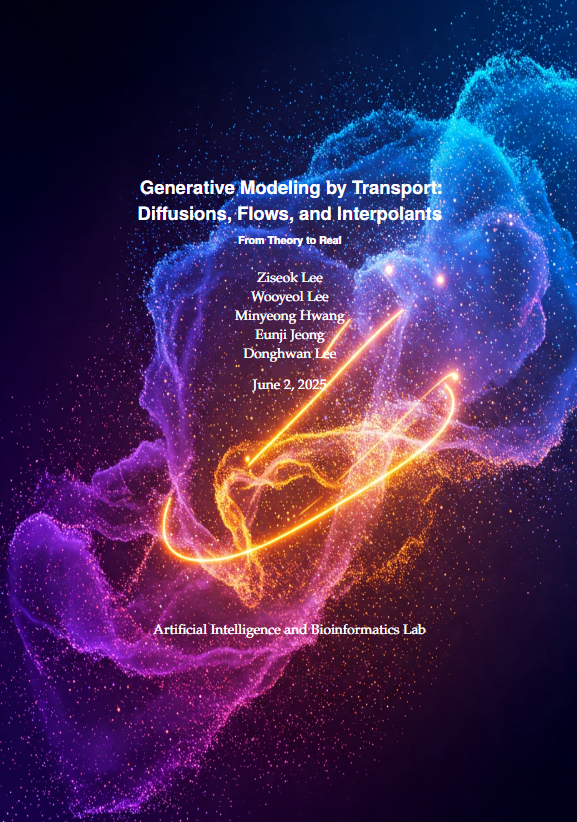
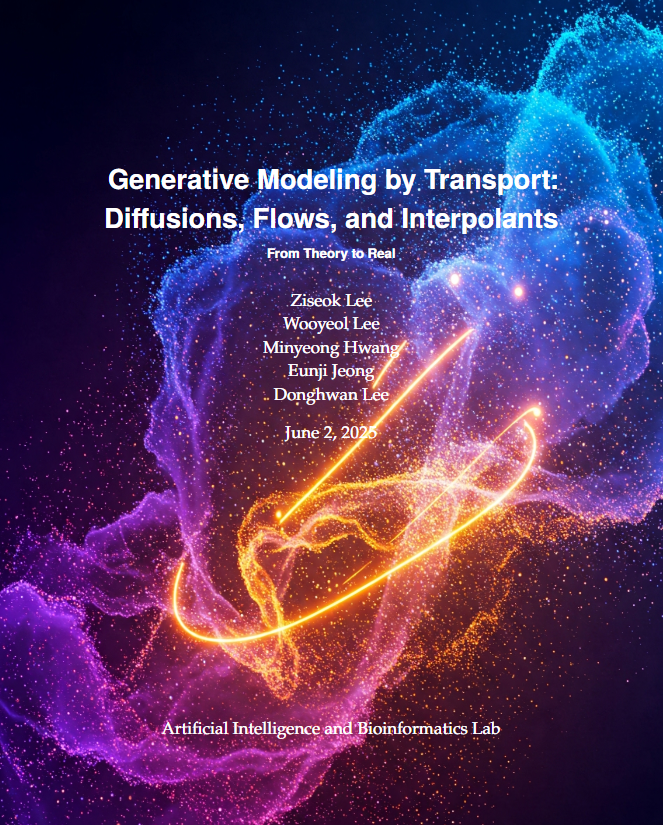
250603

diff --git a/assets/study/index.html b/assets/study/index.html
@@ -40,7 +40,7 @@
 					<ul id="studyList">
 						<li><a href="2025llm/">Reinforcement Learning and Large Language Models</a>, Ziseok Lee, 2025.07.</li>
 						<li><a href="2025proteingene/">Modeling Proteins and Genes with Generative AI</a>, Ziseok Lee, 2025.06.</li>
-						<li><a href="2025diffusion/">Diffusion Models: Prerequisites, Theory, and Applications</a>, Ziseok Lee, 2025.05.</li>
+						<li><a href="2025diffusion/">Generative Modeling by Transport: Diffusions, Flows, and Interpolants</a>, Ziseok Lee, Wooyeol Lee, Minyeong Hwang, Eunji Jeong, Donghwan Lee, 2025.06.</li>
 						<li><a href="2024denialofdeath/">The Denial of Death</a>, Ziseok Lee, Sohyeon Jo, 2024.03.</li>
 						<li><a href="2023complexbrain/">Understanding the Brain as a Complex System</a>, Ziseok Lee, Yunseo Chang, Taehoon Kim, 2023.09.</li>
 					</ul>
